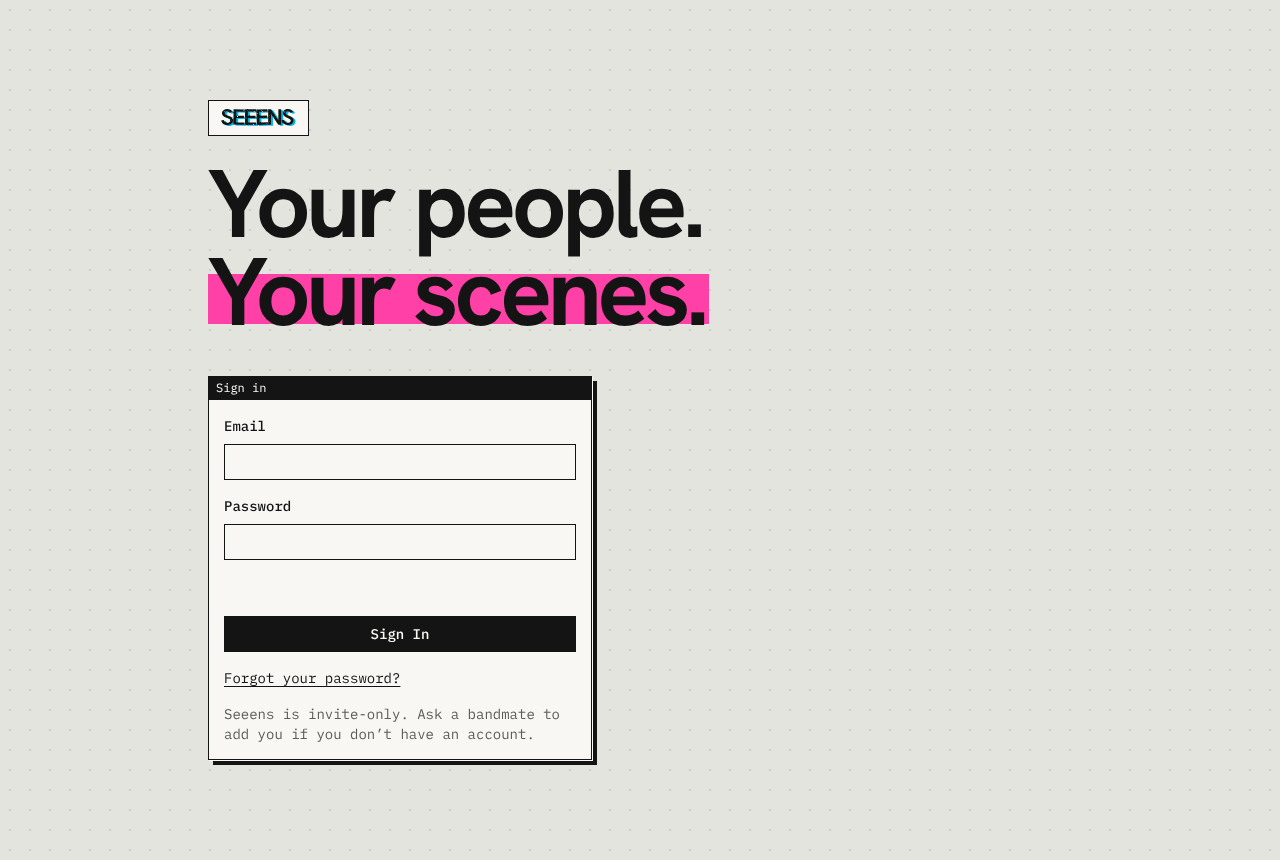
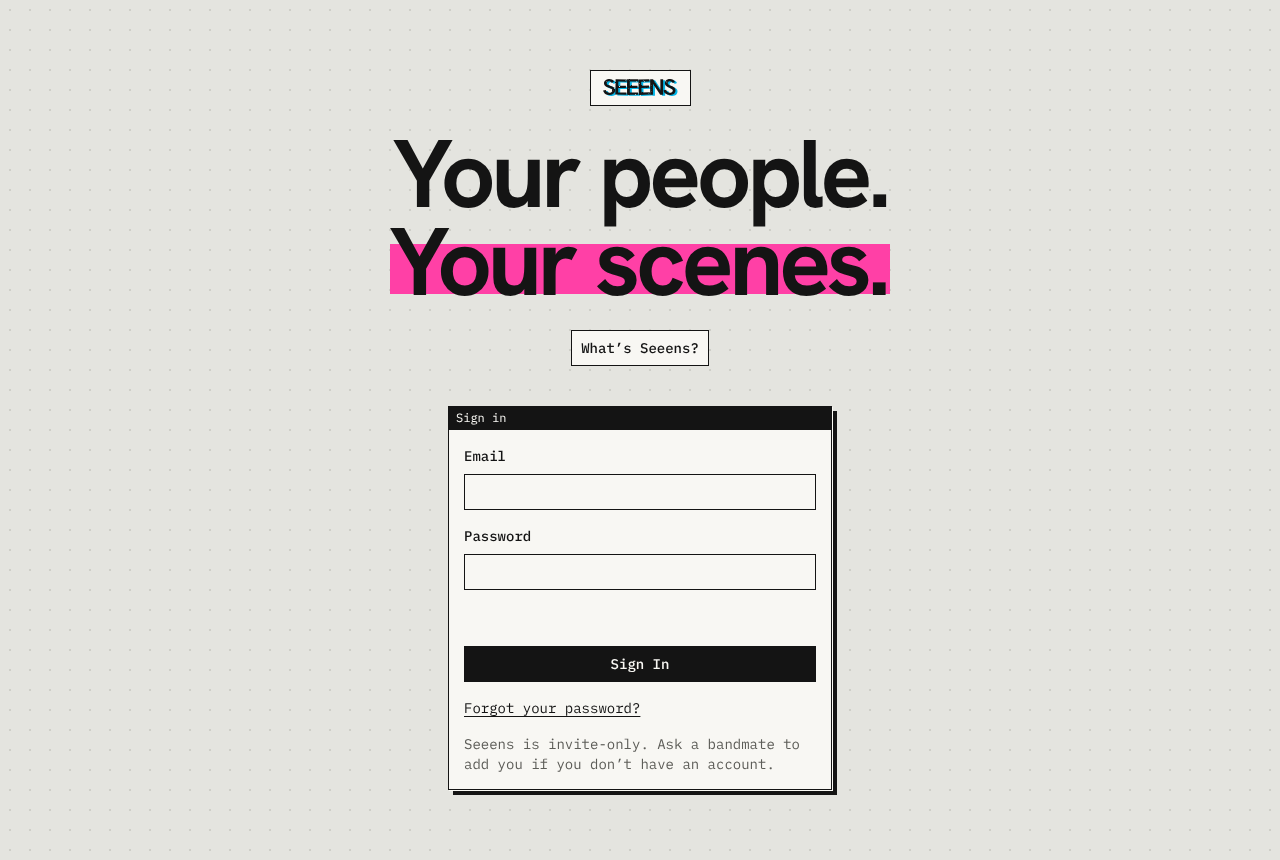
Signing out shows the metronome; Sign In is centered (#210)
Sign Out (account menu, and the invite page) shows the page loader saying
"signing out" over the page before the post goes, and the old page fades.
With a mouse, the busy pointer carries the metronome. Still a plain form
post, so it works without JavaScript.

Sign In's headline, What's Seeens?, and the sign-in box are centered.

Claude-Session: https://claude.ai/code/session_01SMP6NnyPkRALtU7G1T7uNS

diff --git a/src/components/sign-out-form.tsx b/src/components/sign-out-form.tsx
@@ -1,0 +1,49 @@
+"use client";
+
+import { useState } from "react";
+import { createPortal, flushSync } from "react-dom";
+import { PageLoader } from "./metronome";
+
+// Sign Out (#67) as a plain form post, so it works without JavaScript. With
+// it, the metronome shows "signing out" while the page goes (the busy
+// pointer carries it when there's a mouse).
+export function SignOutForm({
+  className,
+  buttonClassName,
+  next,
+}: {
+  className?: string;
+  buttonClassName: string;
+  next?: string;
+}) {
+  const [leaving, setLeaving] = useState(false);
+  return (
+    <form
+      action="/auth/signout"
+      method="post"
+      className={className}
+      onSubmit={(e) => {
+        // Show it first: once the post is under way the page may not paint.
+        e.preventDefault();
+        const form = e.currentTarget;
+        document.documentElement.setAttribute("data-navigating", "");
+        flushSync(() => setLeaving(true));
+        requestAnimationFrame(() => requestAnimationFrame(() => form.submit()));
+      }}
+    >
+      {next ? <input type="hidden" name="next" value={next} /> : null}
+      <button type="submit" className={buttonClassName} disabled={leaving}>
+        Sign Out
+      </button>
+      {/* On the page itself, not inside the menu it was opened from. */}
+      {leaving
+        ? createPortal(
+            <div className="busy-overlay">
+              <PageLoader label="signing out" />
+            </div>,
+            document.body,
+          )
+        : null}
+    </form>
+  );
+}

diff --git a/src/app/invite/[token]/page.tsx b/src/app/invite/[token]/page.tsx
@@ -4,6 +4,7 @@ import { Suspense } from "react";
 import { createClient } from "@/lib/supabase/server";
 import { AcceptForm, JoinForms, OptOutButton } from "./join-forms";
 import { PageLoader } from "@/components/metronome";
+import { SignOutForm } from "@/components/sign-out-form";
 
 // The token is the key: don't send it on to other sites.
 export const metadata: Metadata = { title: "You're invited · Seeens", referrer: "no-referrer" };
@@ -80,12 +81,7 @@ async function Invite({
               <p>
                 This invite is for <strong>{inv.email}</strong>, but you&rsquo;re signed in as {signedInEmail}. Sign out, and you&rsquo;ll come back here to join as {inv.email}.
               </p>
-              <form action="/auth/signout" method="post">
-                <input type="hidden" name="next" value={`/invite/${token}`} />
-                <button type="submit" className="button-secondary">
-                  Sign Out
-                </button>
-              </form>
+              <SignOutForm buttonClassName="button-secondary" next={`/invite/${token}`} />
             </div>
           ) : signedIn ? (
             <AcceptForm token={token} band={inv.band} email={signedInEmail} />

diff --git a/src/app/(app)/layout.tsx b/src/app/(app)/layout.tsx
@@ -12,6 +12,7 @@ import { FeedbackLink } from "@/components/feedback-link";
 import { ModeratorWelcome } from "@/components/moderator-welcome";
 import { BusyPointer } from "@/components/busy-pointer";
 import { createClient } from "@/lib/supabase/server";
+import { SignOutForm } from "@/components/sign-out-form";
 
 export default function AppLayout({ children }: { children: ReactNode }) {
   return (
@@ -155,11 +156,7 @@ async function Account({ layout = "row" }: { layout?: "row" | "menu" }) {
           </>
         ) : null}
       </div>
-      <form action="/auth/signout" method="post" className="menu-group">
-        <button type="submit" className="nav-chip menu-item">
-          Sign Out
-        </button>
-      </form>
+      <SignOutForm className="menu-group" buttonClassName="nav-chip menu-item" />
     </>
   );
 

diff --git a/src/app/login/page.tsx b/src/app/login/page.tsx
@@ -10,7 +10,7 @@ export const metadata: Metadata = {
 export default function LoginPage() {
   return (
     <main className="mx-auto flex w-full max-w-4xl flex-1 flex-col justify-center gap-10 px-4 py-16">
-      <header className="flex flex-col items-start gap-6">
+      <header className="flex flex-col items-center gap-6 text-center">
         <h1 className="logo">
           {/* eslint-disable-next-line @next/next/no-img-element */}
           <img src="/brand/seeens-logo.svg" alt="Seeens" width={75} height={18} />
@@ -27,7 +27,7 @@ export default function LoginPage() {
 
       <section
         aria-labelledby="signin-heading"
-        className="window flex w-full max-w-sm flex-col"
+        className="window flex w-full max-w-sm flex-col self-center"
       >
         <h2
           id="signin-heading"

diff --git a/src/app/globals.css b/src/app/globals.css
@@ -2327,7 +2327,8 @@
     cursor: none !important;
   }
 
-  .nav-loader {
+  .nav-loader,
+  .busy-overlay {
     position: fixed;
     inset: 0;
     z-index: 90;
@@ -2336,7 +2337,8 @@
     pointer-events: none;
   }
   /* Over the old page it needs its own paper, like an old dialog box. */
-  .nav-loader .page-loader {
+  .nav-loader .page-loader,
+  .busy-overlay .page-loader {
     padding: 16px 24px;
     background: var(--color-bg-surface);
     border: 1.5px solid var(--color-border-strong);
